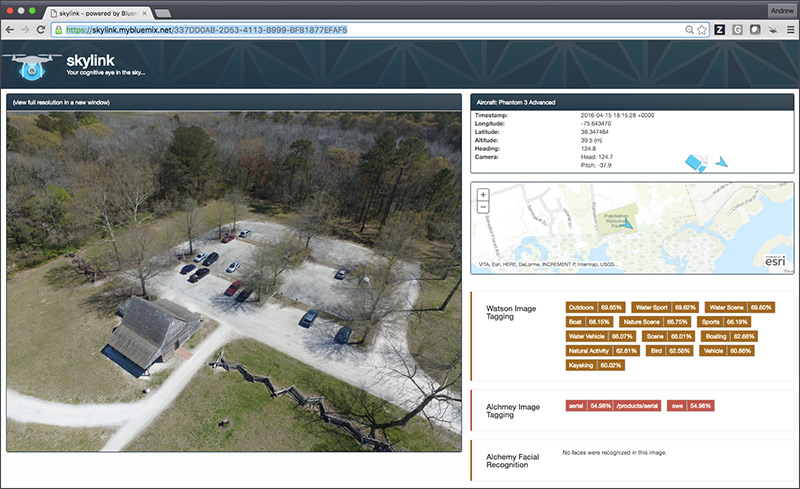
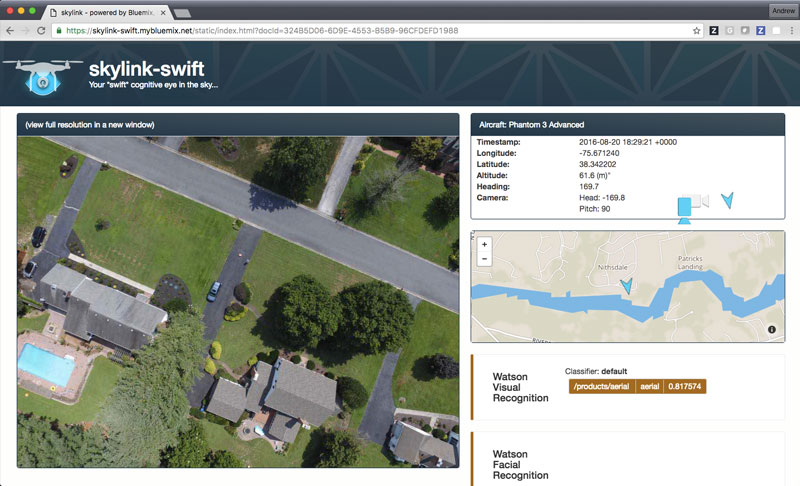
updated readme for Swift app architecture

diff --git a/README.md b/README.md
@@ -1,15 +1,18 @@
 # skylink
-Skylink is a sample application that lets you connect a [DJI][dji] drone aircraft to the [IBM Cloud][bluemix] with near realtime image analysis leveraging [IBM Cloudant][cloudant], [OpenWhisk][openwhisk], [IBM Watson][watson_visual_recognition], and [Alchemy Vision][alchemy_vision].  
+
+## This is the *Swift* branch of skylink 
+
+Skylink is a sample application that lets you connect a [DJI][dji] drone aircraft to the [IBM Cloud][bluemix] with near realtime image analysis leveraging [IBM Cloudant][cloudant], [OpenWhisk][openwhisk], and [IBM Watson][watson_visual_recognition].  
 
 This is a proof of concept use case that demonstrates how low cost/commodity off-the-shelf consumer drones can be integrated into enterprise workflows immediately, leveraging existing technology and infrastructure.
 
-You can read more about the context and usage of this application in [this blog post on the Bluemix blog][bluemix_dw_blog_post], or by viewing [this free webinar][webinar] that walks through the entire solution.
-
-Check out the video below for a quick overview how the application works.    
+Check out the video below for a quick overview how the application works. 
  
  [![video poster image](./github-assets/video-poster.jpg)][youtbue_video]
 
 https://youtu.be/BHmo8oWENJo
+
+ *note: this video shows the node.js branch, not the swift branch of Skylink*
 
 
 ## General Architecture
@@ -17,7 +20,7 @@ The application connects a [DJI][dji] drone aircraft to [IBM Bluemix][bluemix] b
 
 ![screenshot of skylink app running on iPad](./github-assets/architecture.png)
 
-The app captures aircraft telemtry data and images (either full resolution images or video frame grabs) and stores them locally on the iPad using [Cloudant Sync][coudant_sync] - This prevents data loss if you are flying in an area without any network connectivity.  When there is data connectivity, the data is automatically replicated up to the [Cloudant][cloudant] service.  Saving data into Cloudant automatically triggers [OpenWhisk][openwhisk] actions to process the images and data using [Watson Visual Recognition][watson_visual_recognition] and [Alchmey Vision][alchemy_vision] services.  Once all the data has been processed, it is available through a web interface powered by Node.js running on [IBM Bluemix][bluemix]. 
+The app captures aircraft telemtry data and images (either full resolution images or video frame grabs) and stores them locally on the iPad using [Cloudant Sync][coudant_sync] - This prevents data loss if you are flying in an area without any network connectivity.  When there is data connectivity, the data is automatically replicated up to the [Cloudant][cloudant] service.  Saving data into Cloudant automatically triggers [OpenWhisk][openwhisk] actions to process the images and data using [Watson Visual Recognition][watson_visual_recognition] services.  Once all the data has been processed, it is available through a web interface powered by Kitura/Swift running on [IBM Bluemix][bluemix]. 
 
 ## The Aircraft
 
@@ -41,7 +44,6 @@ All development was done using a [DJI Phantom 3 Advanced][dji_phantom] aircraft,
 Create a new Node.js app on Bluemix, and configure it to use the following services:
 
 * [Cloudant NoSQL Database][cloudant]
-* [Alchemy API][alchemy_vision]
 * [Watson Visual Recognition][watson_visual_recognition]
 
 ![screenshot of bluemix app configuration](./github-assets/bluemix-app.jpg)
@@ -112,15 +114,14 @@ The OpenWhisk actions are automatically triggered by changes to the Cloudant dat
 * Data change invokes analysis actions
 * If the data is new &amp; not analyzed, it will follow this sequence:
     * Retrieve the complete document from Cloudant
-    * Retrieve the image attachment binary file
-    * Generate a thumbnail image
     * Analyze the image (in parallel):
-        * Alchemy Facial Recognition
-        * Alchemy Image Keywords
-        * Watson Visual Recognition
+        * Watson Visual Recognition Image Classification
+        * Watson Visual Recognition Face Detection
     * Write analysis results back to Cloudant
-    * Save the image thumbnail back to Cloudant
-    * Generate images for each detected face and save to Cloudant
+    * Generate a thumbnail image(s)
+        * Generate thumbnail for saved image
+        * Generate images for each detected face and save to Cloudant
+        * Save the image thumbnails back to Cloudant
 
 You must have the [OpenWhisk][openwhisk] CLI already installed.
 
@@ -135,35 +136,58 @@ There are also methods in the shell script to uninstall or reinstall these actio
 
 
 
-# Node.js Web Client
+# Swift/Kitura Web Client
 
-You can run the web applicaiton locally, or push it to your Node.js instance(s) on Bluemix.  All code for the Node.js app is contained within the ```web``` directory.
+The web server application is written in Swift and leverages the Kitura framework.  You can learn more about Kitura at:
+
+* https://github.com/IBM-Swift/Kitura
+* https://developer.ibm.com/swift/
+
+You can run the web applicaiton locally, or push it to your Swift application instance(s) on Bluemix.  All code for the Swift/Kitrua app is contained within the ```web``` directory.
 
 ![screenshot of skylink web data in the browser](./github-assets/web-client.jpg)
 
-### Running Node.js Locally
-To run the application locally, you first need to download dependencies by running:
+
+### The application currently uses the 6/20 developer snapshot of Swift 3, which can be downloaded from: https://swift.org/download/#using-downloads  
+
+### Running Locally
+To run the application locally, you first need to download dependencies and compile the app by running:
 ```
-npm install
+swift build
 ```
+
 
 *You only need to do this next step if you are running locally, you do not need to configure credentials if running on Bluemix.* 
-Next, add authentication credentials to the ```configuration.json``` file.  You can get these by clicking on the "Show Credentials" link for each service in your app on Bluemix.  In the old Bluemix interface these are on the main app landince screen.  In the new Bluemix interface, these are avilable under the "Connections" tab.  
+Next, add authentication credentials to the ```cloud_config.json``` file.  You can get these by clicking on the "Show Credentials" link for each service in your app on Bluemix (in the web UI).  In the old Bluemix interface these are on the main app landince screen.  In the new Bluemix interface, these are avilable under the "Connections" tab.  
 
-Launch the app:
+
+Then run the application:
+
 ```
-node app.js
+./.build/debug/Server
 ```
 
-### Running Node.js on Bluemix
-To run the Node.js application on Bluemix, you only need to push the code to the Bluemix applicaiton instance.
+You will see output similar to the following, so you know it is running:
+```
+ VERBOSE: init() Router.swift line 48 - Router initialized
+ INFO: init() Configuration.swift line 44 - Using configuration values from 'cloud_config.json'.
+ VERBOSE: Server main.swift line 60 - Defining routes for server...
+ VERBOSE: run() Kitura.swift line 66 - Staring Kitura framework...
+ VERBOSE: run() Kitura.swift line 68 - Starting an HTTP Server on port 8090...
+ INFO: listen(socket:port:) HTTPServer.swift line 137 - Listening on port 8090
+```
+
+### Running Swift/Kitrua apps on Bluemix
+To run the Swift/Kitrua application on Bluemix, you only need to push the code to the Bluemix applicaiton instance.
 From inside the ```web``` directory, run the following command to push the app up to Bluemix:
 
 ```
 cf push
 ```
 
-*This will use the app name configued within ```manifest.yml```*    
+*This will use the app name configued within ```manifest.yml```*   
+
+Note: The CloudFoudry buildpack is also configured inside of manifest.yml  
 
 # Contribute
 
